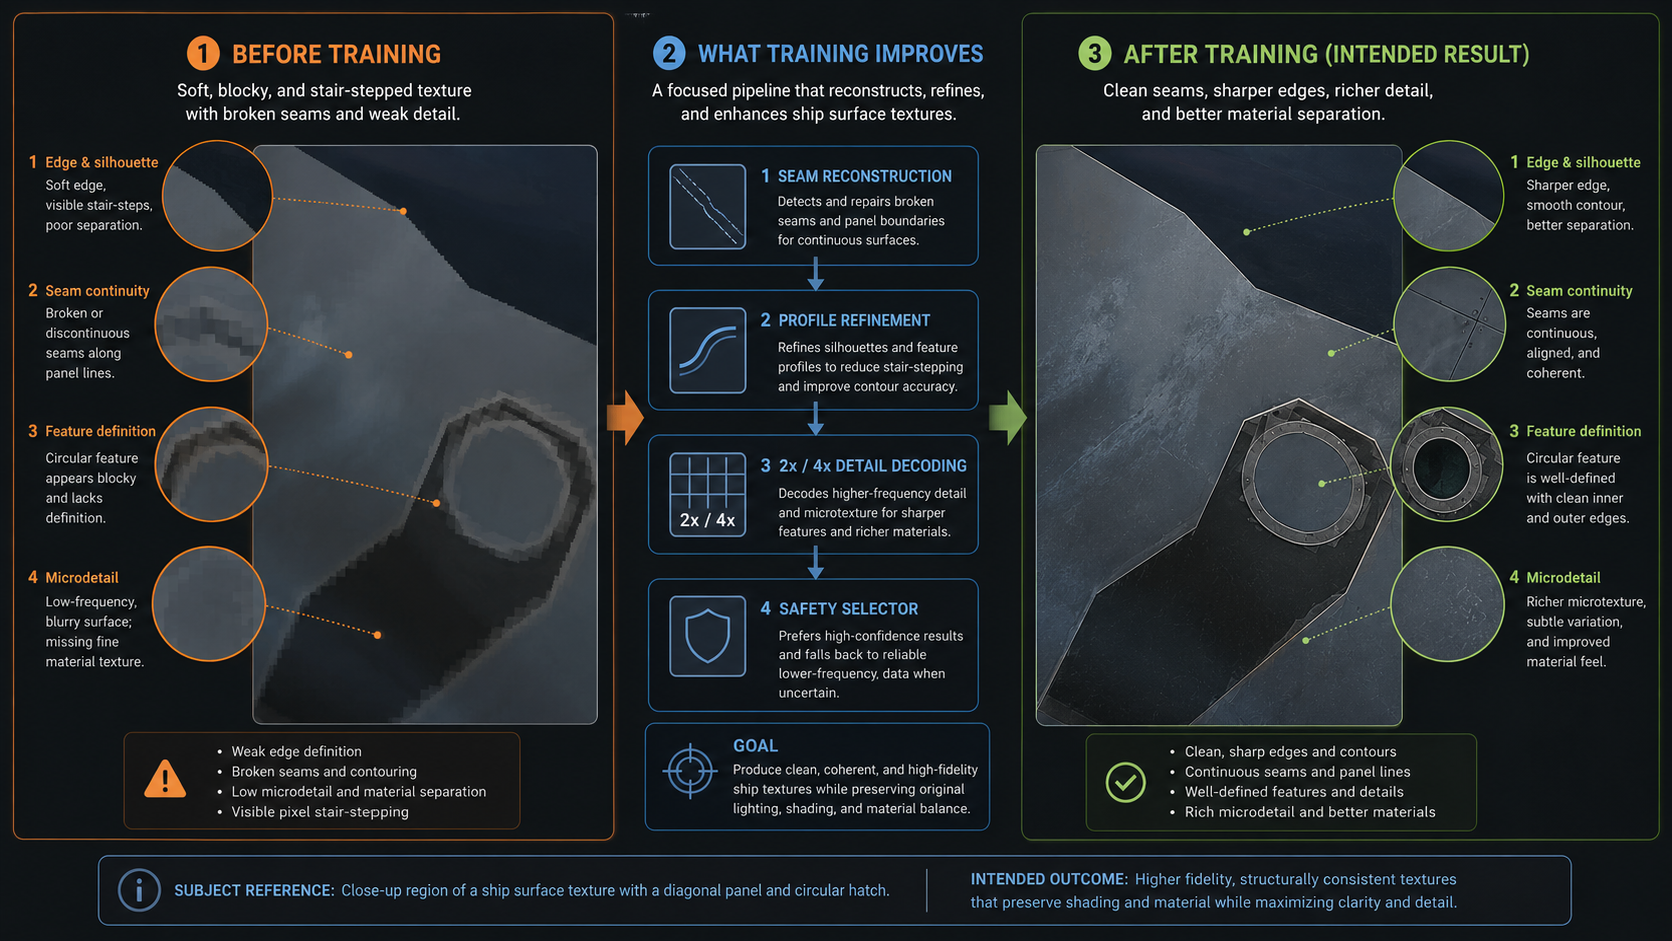
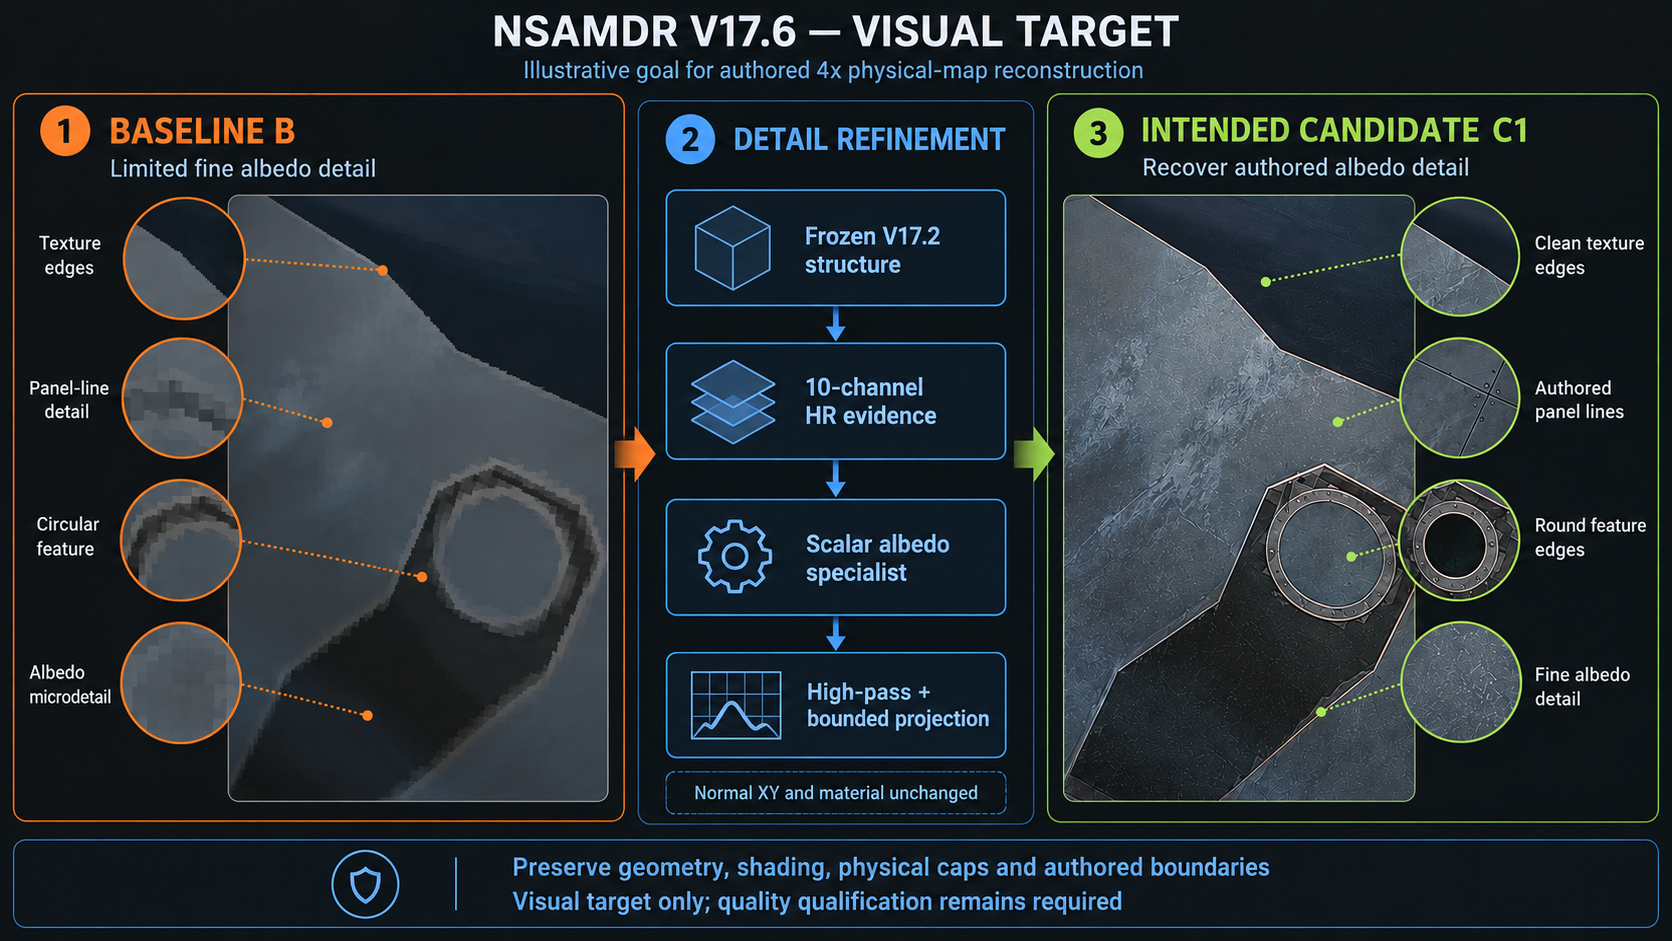
Update V17.6 architecture images and restore README embeds
Replace the outdated production diagram with the verified frozen V17.2,
scalar albedo specialist, physical composition and training-only loss flow.
Include the optional 58-channel feature arm and current numerical guards.
Refresh EXAMPLE as a clearly labeled conceptual visual target, then embed
and link both PNGs from the architecture README.

Validation: both images visually inspected; PNG checksums and README
relative links verified; git diff --check passed. Exactly three files changed.
Architecture image rendered with Matplotlib from the source contract.
EXAMPLE edited with the built-in Imagegen tool using the existing image.

Imagegen prompt (verbatim):
[…]

diff --git a/tools/nsamdr/README.md b/tools/nsamdr/README.md
@@ -6,6 +6,18 @@ NSAMDR reconstructs **4× higher-resolution authored physical textures** from al
 
 The **V17.6 architecture** consists of the existing V17.2 structural network plus an additional high-frequency detail specialist. Adaptive quadtree routing and normal-detail specialization are separate planned extensions.
 
+### System architecture
+
+[![NSAMDR V17.6 system architecture: frozen structure, scalar albedo refinement, physical composition and training-only supervision](./NSAMDR_FULL_SYSTEM_ARCHITECTURE.png)](./NSAMDR_FULL_SYSTEM_ARCHITECTURE.png)
+
+The diagram separates the LR-only inference path from authored-HR training supervision. It includes the experimental 58-channel feature input and shows planned extensions outside the current dense specialist.
+
+### Visual target
+
+[![NSAMDR V17.6 visual target: illustrative baseline and intended authored-albedo detail recovery](./EXAMPLE.png)](./EXAMPLE.png)
+
+This conceptual illustration defines the intended recovery of authored albedo edges and fine detail while preserving geometry, shading, physical caps and authored boundaries. It is a visual target; measured proof reports and the original quality gates establish model performance. Normal XY and material remain the original V17.2 outputs.
+
 ### Overall data flow
 
 ```text
@@ -111,11 +123,15 @@ Architecture: a 3×3 convolutional stem, **32-channel** feature width, four resi
 
 No authored target is passed to this network during inference. All backbone tensors are detached from the specialist's gradient graph.
 
+The controlled **HR-feature ablation** adds 48 frozen 4× decoder feature channels to the ten-channel evidence, giving a 58-channel specialist input. It retains the same scalar output, residual-block layout and physical composition. The additional stem-channel weights are initially zero.
+
 ### Phase-neutral physical composition
 
 **Implementation:** `tools/nsamdr/neural/v176/physical_composition.py`
 
 The specialist output is spatially high-pass filtered, with Gaussian `σ = 1.25` HR pixels and filter radius `4`. Filtering operates at full HR resolution without downsampling or repeating 4× subpixel-phase fields.
+
+The fixed Gaussian and Haar convolutions use FP32 with autocast and cuDNN TF32 disabled. Finite-magnitude and nonfinite guards stop an unstable research run and preserve first-failure tensor evidence. The physical projection continues to use the original residual caps.
 
 ```text
 D       = Specialist(LR maps, B, C₀, V17.2 residual bands)
@@ -179,8 +195,10 @@ Potential routing features are albedo/normal gradients, regional structural comp
 | `neural/v17/model.py` | Existing eight-channel structural encoder, 2×/4× decoder and physical projection |
 | `neural/v14/baseline.py` | Deterministic baseline B and normal projection |
 | `neural/v176/fine_detail.py` | Frozen-backbone wrapper and high-frequency residual specialist |
+| `neural/v176/detail_capacity.py` | Experimental 58-channel frozen-HR-feature input and detail diagnostics |
 | `neural/v176/physical_composition.py` | Gaussian high-pass, bounded scalar-albedo composition |
 | `neural/v176/wavelet_supervision.py` | Two-level undecimated directional-band training supervision |
+| `neural/v176/stability.py` | Finite-magnitude guards, specialist-only optimizer updates and failure evidence |
 | `neural/v14/qualification.py` | Existing recovery, preservation and 4× phase/lattice metrics |
 
 The original V17.2 implementation and previous trained evidence remain separate from V17.6. The sealed final-test authorities are not training inputs.
